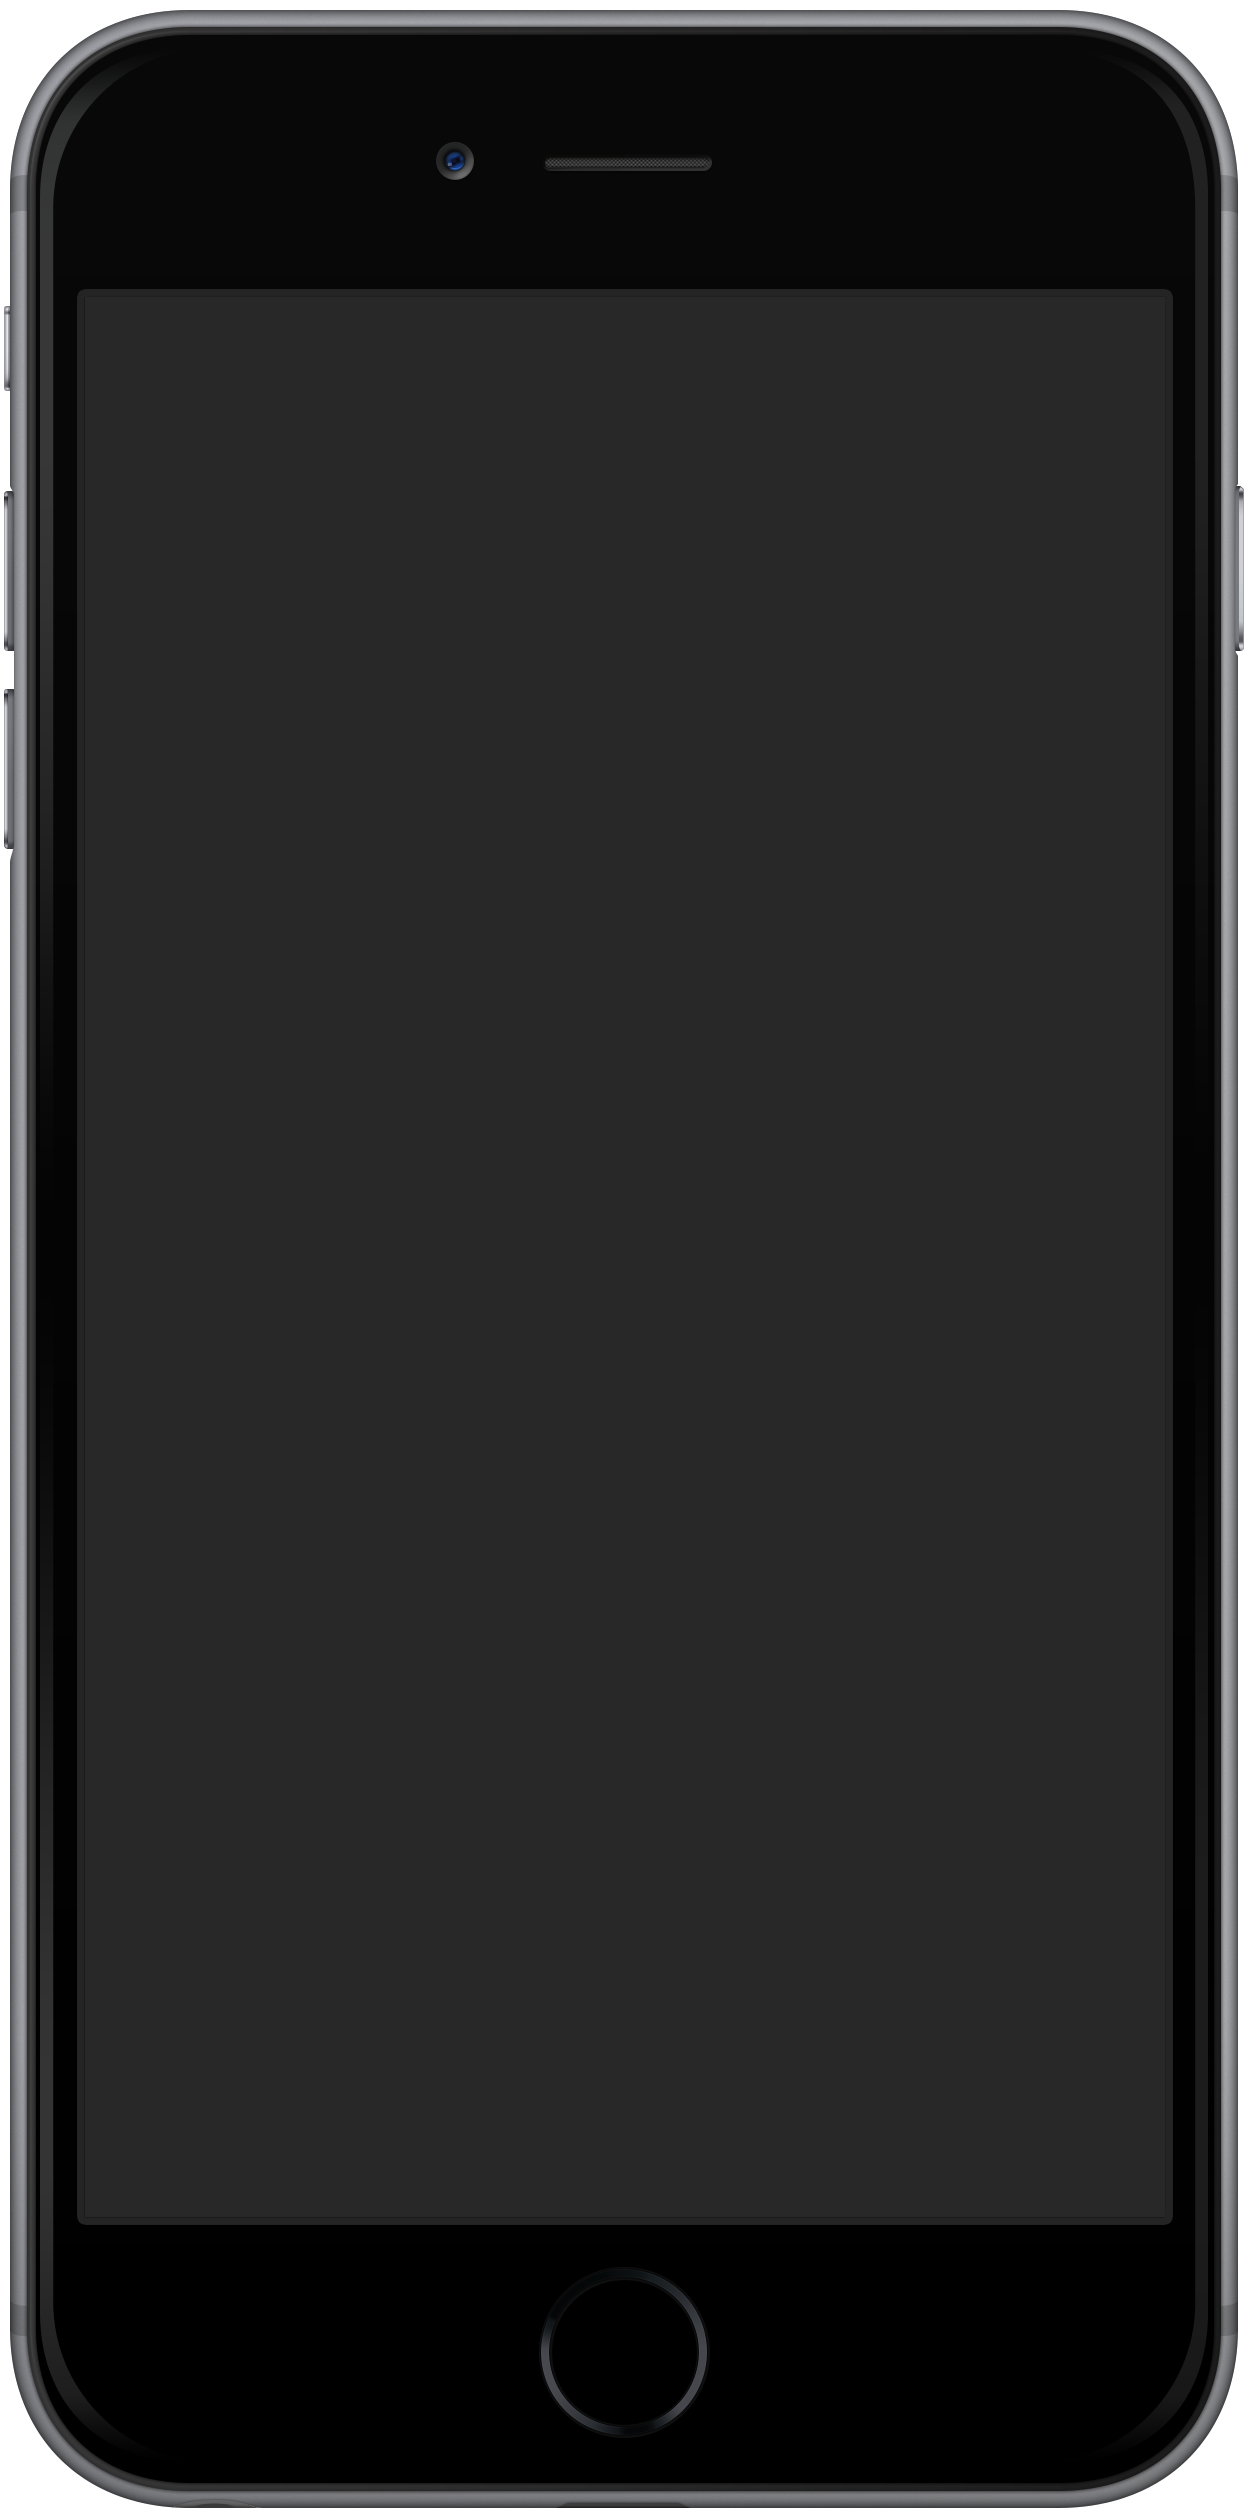
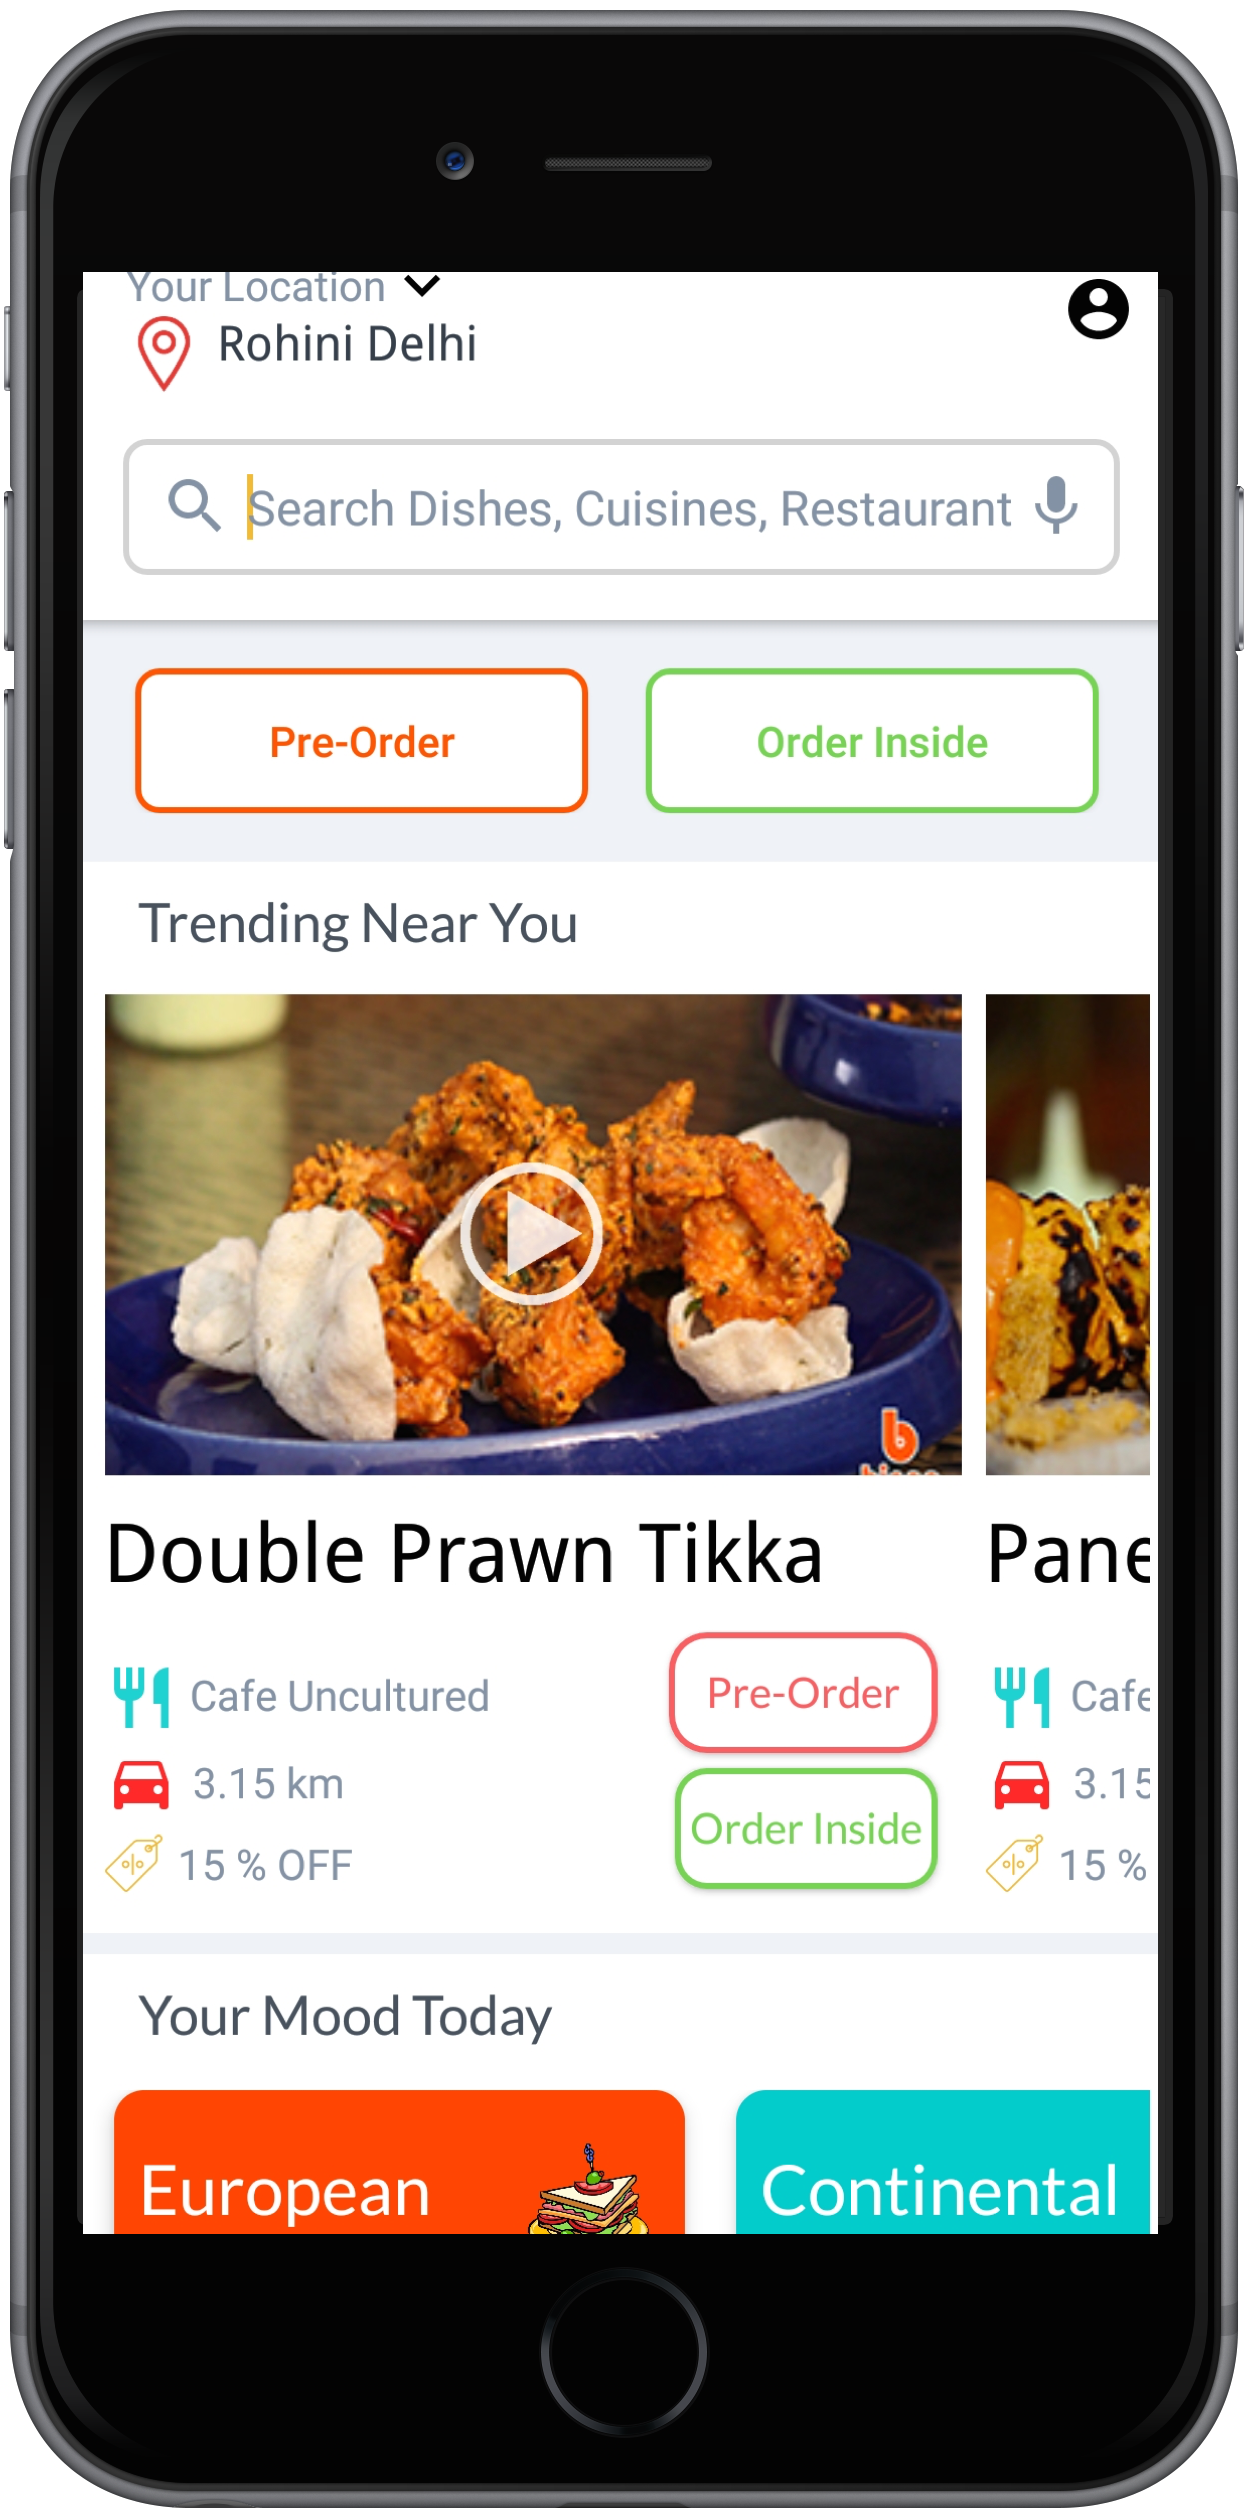
changed front page content

diff --git a/src/assets/css/new-age.min.css b/src/assets/css/new-age.min.css
@@ -1,1 +1,2 @@
 body,html{width:100%;height:100%}body{font-family:Muli,Helvetica,Arial,sans-serif}a{color:#fdcc52;-webkit-transition:all .35s;-moz-transition:all .35s;transition:all .35s}a:focus,a:hover{color:#fcbd20}hr{max-width:100px;margin:25px auto 0;border-width:1px;border-color:rgba(34,34,34,.1)}hr.light{border-color:#fff}h1,h2,h3,h4,h5,h6{font-family:Catamaran,Helvetica,Arial,sans-serif;font-weight:200;letter-spacing:1px}p{font-size:18px;line-height:1.5;margin-bottom:20px}section{padding:100px 0}section h2{font-size:50px}#mainNav{border-color:rgba(34,34,34,.05);background-color:#fff;-webkit-transition:all .35s;-moz-transition:all .35s;transition:all .35s;font-family:Catamaran,Helvetica,Arial,sans-serif;font-weight:200;letter-spacing:1px}#mainNav .navbar-brand{color:#fdcc52;font-family:Catamaran,Helvetica,Arial,sans-serif;font-weight:200;letter-spacing:1px}#mainNav .navbar-brand:focus,#mainNav .navbar-brand:hover{color:#fcbd20}#mainNav .navbar-toggler{font-size:12px;padding:8px 10px;color:#222}#mainNav .navbar-nav>li>a{font-size:11px;font-family:Lato,Helvetica,Arial,sans-serif;letter-spacing:2px;text-transform:uppercase}#mainNav .navbar-nav>li>a.active{color:#fdcc52!important;background-color:transparent}#mainNav .navbar-nav>li>a.active:hover{background-color:transparent}#mainNav .navbar-nav>li>a,#mainNav .navbar-nav>li>a:focus{color:#222}#mainNav .navbar-nav>li>a:focus:hover,#mainNav .navbar-nav>li>a:hover{color:#fdcc52}@media (min-width:992px){#mainNav{border-color:transparent;background-color:transparent}#mainNav .navbar-brand{color:fade(white,70%)}#mainNav .navbar-brand:focus,#mainNav .navbar-brand:hover{color:#fff}#mainNav .navbar-nav>li>a,#mainNav .navbar-nav>li>a:focus{color:rgba(255,255,255,.7)}#mainNav .navbar-nav>li>a:focus:hover,#mainNav .navbar-nav>li>a:hover{color:#fff}#mainNav.navbar-shrink{border-color:rgba(34,34,34,.1);background-color:#fff}#mainNav.navbar-shrink .navbar-brand{color:#222}#mainNav.navbar-shrink .navbar-brand:focus,#mainNav.navbar-shrink .navbar-brand:hover{color:#fdcc52}#mainNav.navbar-shrink .navbar-nav>li>a,#mainNav.navbar-shrink .navbar-nav>li>a:focus{color:#222}#mainNav.navbar-shrink .navbar-nav>li>a:focus:hover,#mainNav.navbar-shrink .navbar-nav>li>a:hover{color:#fdcc52}}header.masthead{position:relative;width:100%;padding-top:150px;padding-bottom:100px;color:#fff;background:url(../img/bg-pattern.png),#7b4397;background:url(../img/bg-pattern.png),-webkit-linear-gradient(to left,#7b4397,#dc2430);background:url(../img/bg-pattern.png),linear-gradient(to left,#7b4397,#dc2430)}header.masthead .header-content{max-width:500px;margin-bottom:100px;text-align:center}header.masthead .header-content h1{font-size:30px}header.masthead .device-container{max-width:325px;margin-right:auto;margin-left:auto}header.masthead .device-container .screen img{border-radius:3px}@media (min-width:992px){header.masthead{height:100vh;min-height:775px;padding-top:0;padding-bottom:0}header.masthead .header-content{margin-bottom:0;text-align:left}header.masthead .header-content h1{font-size:50px}header.masthead .device-container{max-width:325px}}section.download{position:relative;padding:150px 0}section.download h2{font-size:50px;margin-top:0}section.download .badges .badge-link{display:block;margin-bottom:25px}section.download .badges .badge-link:last-child{margin-bottom:0}section.download .badges .badge-link img{height:60px}@media (min-width:768px){section.download .badges .badge-link{display:inline-block;margin-bottom:0}}@media (min-width:768px){section.download h2{font-size:70px}}section.features .section-heading{margin-bottom:100px}section.features .section-heading h2{margin-top:0}section.features .section-heading p{margin-bottom:0}section.features .device-container,section.features .feature-item{max-width:325px;margin:0 auto}section.features .device-container{margin-bottom:100px}@media (min-width:992px){section.features .device-container{margin-bottom:0}}section.features .feature-item{padding-top:50px;padding-bottom:50px;text-align:center}section.features .feature-item h3{font-size:30px}section.features .feature-item i{font-size:80px;display:block;margin-bottom:15px;background:-webkit-linear-gradient(to left,#7b4397,#dc2430);background:linear-gradient(to left,#7b4397,#dc2430);-webkit-background-clip:text;-webkit-text-fill-color:transparent}section.cta{position:relative;padding:250px 0;background-image:url(../img/bg-cta.jpg);background-position:center;-webkit-background-size:cover;-moz-background-size:cover;-o-background-size:cover;background-size:cover}section.cta .cta-content{position:relative;z-index:1}section.cta .cta-content h2{font-size:50px;max-width:450px;margin-top:0;margin-bottom:25px;color:#fff}@media (min-width:768px){section.cta .cta-content h2{font-size:80px}}section.cta .overlay{position:absolute;top:0;left:0;width:100%;height:100%;background-color:rgba(0,0,0,.5)}section.contact{text-align:center}section.contact h2{margin-top:0;margin-bottom:25px}section.contact h2 i{color:#dd4b39}section.contact ul.list-social{margin-bottom:0}section.contact ul.list-social li a{font-size:40px;line-height:80px;display:block;width:80px;height:80px;color:#fff;border-radius:100%}section.contact ul.list-social li.social-twitter a{background-color:#1da1f2}section.contact ul.list-social li.social-twitter a:hover{background-color:#0d95e8}section.contact ul.list-social li.social-facebook a{background-color:#3b5998}section.contact ul.list-social li.social-facebook a:hover{background-color:#344e86}section.contact ul.list-social li.social-google-plus a{background-color:#dd4b39}section.contact ul.list-social li.social-google-plus a:hover{background-color:#d73925}footer{padding:25px 0;text-align:center;color:rgba(255,255,255,.3);background-color:#222}footer p{font-size:12px;margin:0}footer ul{margin-bottom:0}footer ul li a{font-size:12px;color:rgba(255,255,255,.3)}footer ul li a.active,footer ul li a:active,footer ul li a:focus,footer ul li a:hover{text-decoration:none}.bg-primary{background:#fdcc52;background:-webkit-linear-gradient(#fdcc52,#fdc539);background:linear-gradient(#fdcc52,#fdc539)}.text-primary{color:#fdcc52}.no-gutter>[class*=col-]{padding-right:0;padding-left:0}.btn-outline{color:#fff;border:1px solid;border-color:#fff}.btn-outline.active,.btn-outline:active,.btn-outline:focus,.btn-outline:hover{color:#fff;border-color:#fdcc52;background-color:#fdcc52}.btn{border-radius:300px;font-family:Lato,Helvetica,Arial,sans-serif;letter-spacing:2px;text-transform:uppercase}.btn-xl{font-size:11px;padding:15px 45px}
+

diff --git a/src/app/homepage/second-section/second-section.component.html b/src/app/homepage/second-section/second-section.component.html
@@ -9,7 +9,7 @@
         <div id="carouselExampleIndicators" class="carousel slide col-lg-6 my-auto" data-ride="carousel">
           <div class="row carousel-inner">
             <div class="carousel-item active">
-              <img class="d-block w-100" src="../../assets/img/img 1.jpg" alt="First slide">
+              <img class="d-block w-100" src="../../assets/img/film.png" alt="First slide">
             </div>
             <div class="carousel-item">
               <img class="d-block w-100" src="../../assets/img/img 2.jpg" alt="Second slide">
@@ -28,18 +28,18 @@
             <div class="col-lg-6">
               <a class="active" data-target="#carouselExampleIndicators" data-slide-to="0">
                 <div class="feature-item">
-                  <i class="icon-screen-smartphone text-primary"></i>
-                  <h3>Device Mockups</h3>
-                  <p class="text-muted">Ready to use HTML/CSS device mockups, no Photoshop required!</p>
+                  <img  src="../../assets/img/pizza.png" height="100px" alt="First slide">
+                  <h3>Discover Unique Eats</h3>
+                  <p class="text-muted">Discover the new Dessert and appetizer in a restaurant or cafe near you</p>
                 </div>
               </a>
             </div>
             <div class="col-lg-6">
               <a data-target="#carouselExampleIndicators" data-slide-to="1">
                 <div class="feature-item">
-                  <i class="icon-camera text-primary"></i>
-                  <h3>Flexible Use</h3>
-                  <p class="text-muted">Put an image, video, animation, or anything else in the screen!</p>
+                  <img  src="../../assets/img/film.png" height="100px" >
+                  <h3>Video Menus</h3><br>
+                  <p class="text-muted">Dont ask the waiter anymore. Our video will help you understand the food.</p>
                 </div>
               </a>
             </div>
@@ -48,18 +48,18 @@
             <div class="col-lg-6">
               <a data-target="#carouselExampleIndicators" data-slide-to="2">
                 <div class="feature-item">
-                  <i class="icon-present text-primary"></i>
-                  <h3>Free to Use</h3>
-                  <p class="text-muted">As always, this theme is free to download and use for any purpose!</p>
+                  <img  src="../../assets/img/table.png" height="100px" >
+                  <h3>Pre Order</h3>
+                  <p class="text-muted">Pre Order at your favourite restaurant and get your meal served as you reach</p>
                 </div>
               </a>
             </div>
             <div class="col-lg-6">
               <a data-target="#carouselExampleIndicators" data-slide-to="3">
                 <div class="feature-item">
-                  <i class="icon-lock-open text-primary"></i>
-                  <h3>Open Source</h3>
-                  <p class="text-muted">Since this theme is MIT licensed, you can use it commercially!</p>
+                  <img  src="../../assets/img/pizza.png" height="100px" >
+                  <h3>Great Offers</h3>
+                  <p class="text-muted">Pay through the app and get discounts on food bill</p>
                 </div>
               </a>
             </div>

diff --git a/src/app/homepage/first-section/first-section.component.html b/src/app/homepage/first-section/first-section.component.html
@@ -7,10 +7,14 @@
             <div id="carouselExampleSlidesOnly" class="carousel slide" data-ride="carousel">
               <div class="carousel-inner">
                 <div class="carousel-item active">
-                  Ye toh 
+                  Order Food Online Before Reaching The Restaurant 
                 </div>
                 <div class="carousel-item">
-                  Waiting for your order inside the restaurant
+                  Great Food with Discounts at Restaurants Near You
+                </div>
+                
+                <div class="carousel-item">
+                  Video Menus for Hassle Free Ordering
                 </div>
               </div>
             </div>
@@ -25,7 +29,7 @@
             <div class="device">
               <div class="screen">
                 <!-- Demo image for screen mockup, you can put an image here, some HTML, an animation, video, or anything else! -->
-                <img src="http://binge.digital/img/mainscreen.jpg" class="img-fluid" alt="">
+                <!-- <img src="section1ss.jpg" class="img-fluid" alt=""> -->
               </div>
             </div>
           </div>

diff --git a/src/index.html b/src/index.html
@@ -2,10 +2,11 @@
 <html lang="en">
 <head>
   <meta charset="utf-8">
-  <title>BingeTesting</title>
+  <title>Binge- Discover and pre order Food at Restaurants near you from Delhi NCR best food discovery platform.</title>
   <base href="/">
   <meta name="viewport" content="width=device-width, initial-scale=1">
   <meta content='width=device-width, initial-scale=1.0, maximum-scale=1.0, user-scalable=0, shrink-to-fit=no' name='viewport' />
+  <link rel="shortcut icon" href="favicon.ico" />
 </head>
 <link rel="stylesheet" href="https://maxcdn.bootstrapcdn.com/bootstrap/4.0.0/css/bootstrap.min.css">
 <script src="https://ajax.googleapis.com/ajax/libs/jquery/3.3.1/jquery.min.js"></script>

diff --git a/src/styles.css b/src/styles.css
@@ -3,3 +3,6 @@
   height: 400px;
   width: 100%;
 }
+#front-page-icon{
+	height: 100px;
+}
